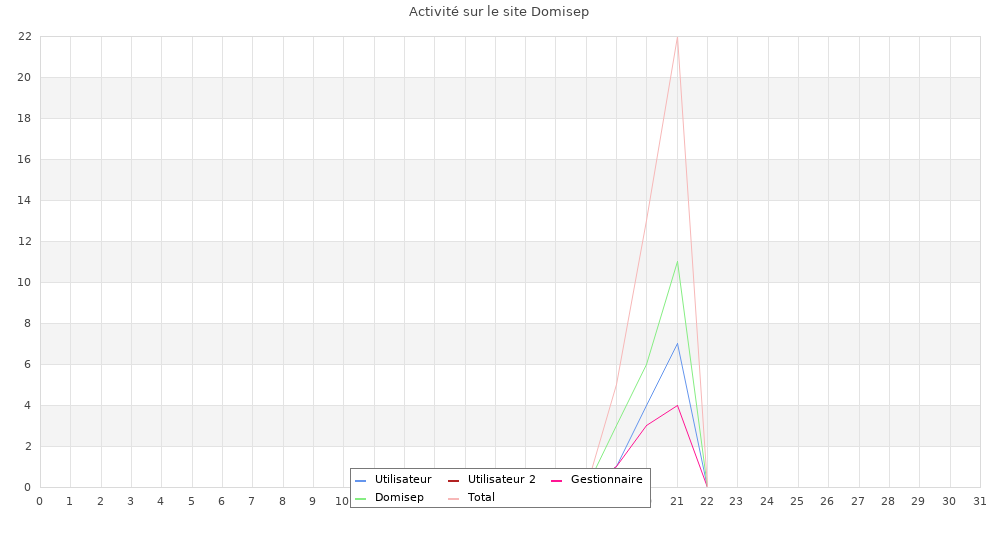
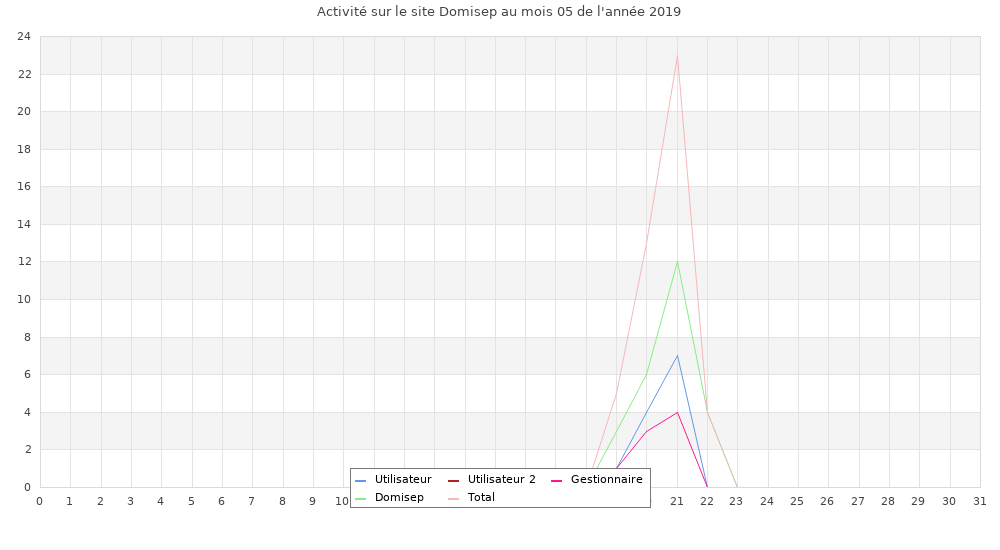
Choisir mois/année statistiques (Domisep)

diff --git a/view/StatistiquesDomisep.php b/view/StatistiquesDomisep.php
@@ -18,7 +18,70 @@
 <div id="Construction">
     <img src="view/Images/graphique_test.png">
 </div>
-
+<div id="Recap">
+<?php
+if (isset($_POST["mois"])) {
+    $mois = htmlspecialchars($_POST["mois"]);
+ } else {
+    $mois = date('m');
+ }
+ if (isset($_POST["annee"])) {
+    $annee = htmlspecialchars($_POST["annee"]);
+ } else {
+    $annee = date('Y');
+ }
+ echo "Activité du mois n°$mois de l'année $annee";
+ ?>
+</div>
+<div id="Formulaire">
+    <form id=registration_form action ="index.php?cible=domisep&action=see_Statistiques_Domisep" method="post">
+        <table>
+            <div id="ligne">
+                <div id="form2_demi">
+                    <label for="mois">Mois :</label>
+                        <select name="mois">
+                            <option value="01">janvier</option>
+                            <option value="02">février</option>
+                            <option value="03">mars</option>
+                            <option value="04">avril</option>
+                            <option value="05" selected>mai</option>
+                            <option value="06">juin</option>
+                            <option value="07">juillet</option>
+                            <option value="08">août</option>
+                            <option value="09">septembre</option>
+                            <option value="10">octobre</option>
+                            <option value="11">novembre</option>
+                            <option value="12">décembre</option>
+                        </select><br>
+                </div>
+            </div>
+            <div id="ligne">
+                <div id="form2_demi">
+                    <label for="annee">Année :</label>
+                        <select name="annee">
+                            <option value="2019" selected>2019</option>
+                            <option value="2020">2020</option>
+                            <option value="2021">2021</option>
+                            <option value="2022">2022</option>
+                            <option value="2023">2023</option>
+                            <option value="2024">2024</option>
+                            <option value="2025">2025</option>
+                            <option value="2026">2026</option>
+                            <option value="2027">2027</option>
+                            <option value="2028">2028</option>
+                        </select><br>
+                </div>
+            </div>
+            <div id="ligne">            
+                <div id="form2_bas">
+                    <label>
+                        <button id= "btn-submit2" type="submit" name="btn-submit2" >&#10143 Valider</button>
+                    </label><br>
+                </div>
+            </div>
+        </table>
+    </form>
+</div>
 <!--Mettre ici le contenu de nos pages-->
 
 </html>

diff --git a/controller/domisep.php b/controller/domisep.php
@@ -10,13 +10,13 @@ if (isset($_GET["action"])) {
     
     case "see_Statistiques_Domisep":
         error_reporting(E_ERROR | E_PARSE);
-         if (isset($_GET["mois"])) {
-            $mois = htmlspecialchars($_GET["mois"]);
+         if (isset($_POST["mois"])) {
+            $mois = htmlspecialchars($_POST["mois"]);
          } else {
             $mois = date('m');
          }
-         if (isset($_GET["annee"])) {
-            $annee = htmlspecialchars($_GET["annee"]);
+         if (isset($_POST["annee"])) {
+            $annee = htmlspecialchars($_POST["annee"]);
          } else {
             $annee = date('Y');
          }
@@ -34,7 +34,7 @@ if (isset($_GET["action"])) {
         
         $graph->SetTheme($theme_class);
         $graph->img->SetAntiAliasing(false);
-        $graph->title->Set('Activité sur le site Domisep');
+        $graph->title->Set("Activité sur le site Domisep au mois $mois de l'année $annee");
         
         $graph->SetMargin(40,20,36,63);
         

diff --git a/view/AccueilDomisep.php b/view/AccueilDomisep.php
@@ -18,7 +18,6 @@ height :60%;
 
 <html>
 <div>
- 
     <p> </p>
     <p> </p>
 </div>
